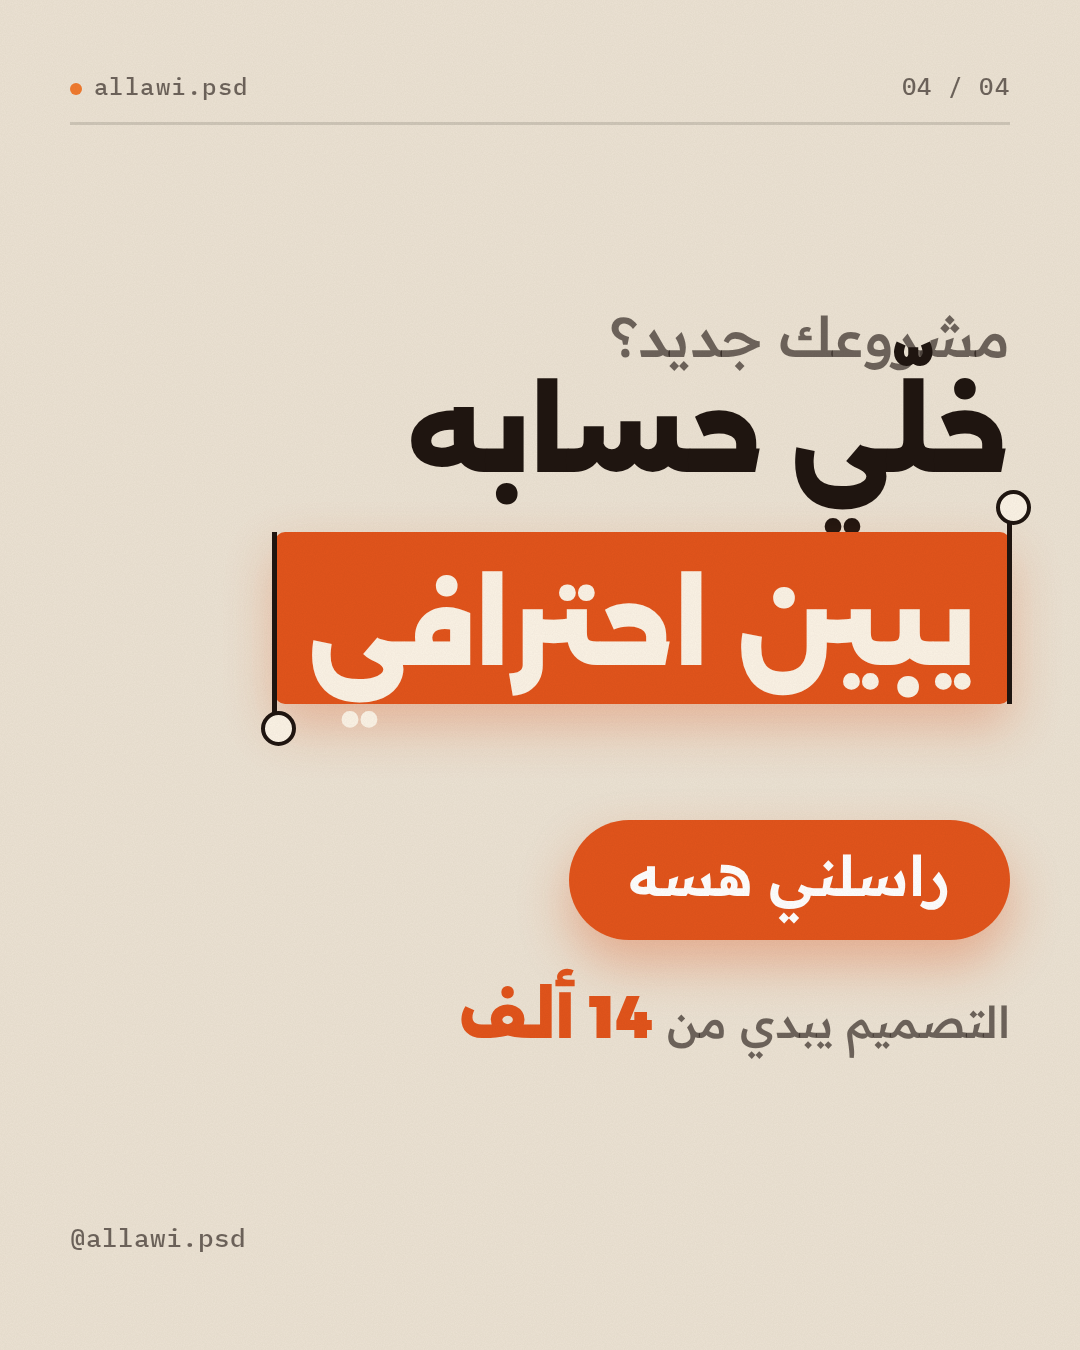
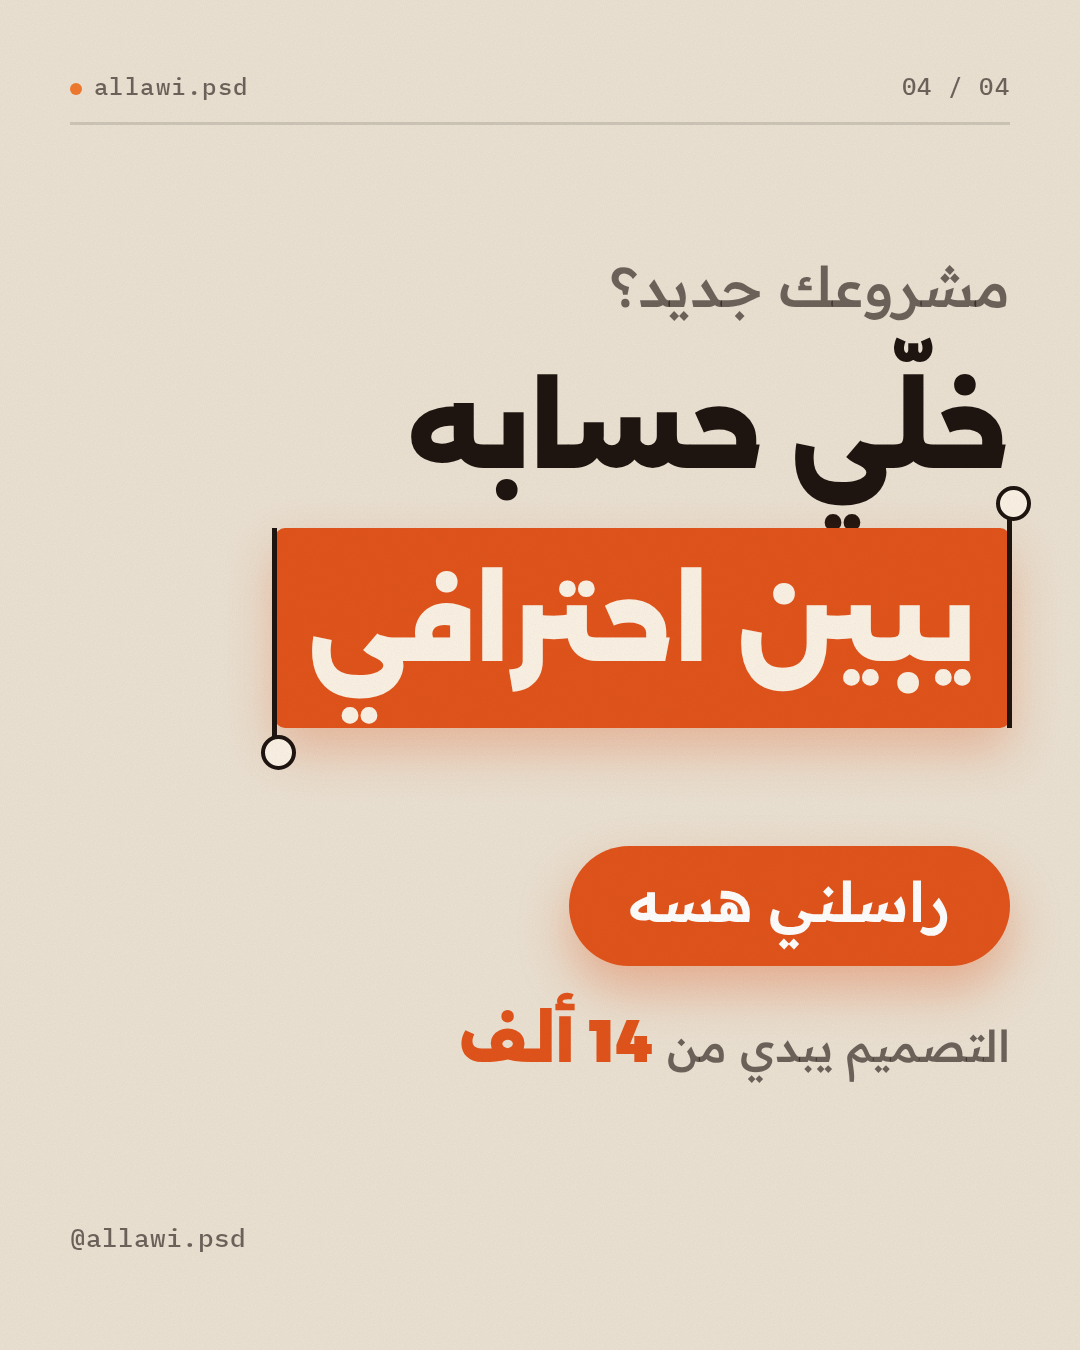
Fix text collisions found by a new glyph-level checker
tools/textcheck.cjs renders each text element alone, compares the actual ink (chips include their background), and
reports text that touches other text or the frame edge. Layout boxes miss these collisions because the hamza on «أ»,
shaddas and dots draw outside the line box.

Running it over the recent work found three collisions, now fixed:
- fixed-prices story: «وأسعاري» touched «الدولار صعد..», and the «LOCKED» badge touched «وأسعاري».
- Cactus carousel slide 4: the shadda on «خلّي» touched «مشروعك جديد؟». While there, the dots of «احترافي» that
  hung below the orange box are brought inside it.

The other slides came out clean: the five brand ads, all 22 brand-post slides, the Cactus showcase, kit and stories,
the offer post and stories, the identity covers and the reel cover.

Claude-Session: https://claude.ai/code/session_013oWw8PeK3nbdaZG97hkGWn

diff --git a/marketing/ig-offer/fixed-prices.html b/marketing/ig-offer/fixed-prices.html
@@ -23,8 +23,8 @@ body { background:#333; padding:40px }
 .block { position:absolute; left:70px; right:70px; top:340px; display:flex; flex-direction:column; align-items:flex-start }
 .lead { display:flex; align-items:center; gap:18px; font:500 64px/1.3 'Readex Pro'; color:var(--soft); white-space:nowrap }
 .lead svg { width:58px; height:58px }
-.hero { font:900 150px/1.12 'Alexandria'; white-space:nowrap; margin-top:4px }
-.hl { position:relative; display:inline-block; padding:36px 44px 18px; margin-top:44px }
+.hero { font:900 150px/1.12 'Alexandria'; white-space:nowrap; margin-top:34px }
+.hl { position:relative; display:inline-block; padding:36px 44px 18px; margin-top:30px }
 .hl .box { position:absolute; inset:0; background:var(--orange); border-radius:12px; box-shadow:0 24px 56px rgba(226,84,27,.32) }
 .hl .hd { position:absolute; width:5px; background:var(--ink) }
 .hl .hd::after { content:""; position:absolute; left:-11px; width:27px; height:27px; border-radius:50%; background:var(--cream); border:4px solid var(--ink) }
@@ -32,27 +32,27 @@ body { background:#333; padding:40px }
 .hl .hd.l { left:-3px; bottom:-30px; height:calc(100% + 30px) } .hl .hd.l::after { bottom:-14px }
 .hl .hero { position:relative; font-size:170px; color:var(--cream); margin:0 }
 /* Photoshop-style "locked layer" badge on the selection */
-.lock { position:absolute; z-index:3; left:-30px; top:-34px; display:flex; align-items:center; gap:10px; padding:10px 18px 12px 14px; border-radius:14px;
+.lock { position:absolute; z-index:3; left:-30px; top:-8px; display:flex; align-items:center; gap:10px; padding:10px 18px 12px 14px; border-radius:14px;
   background:var(--ink); color:var(--cream); font:500 22px 'IBM Plex Mono'; letter-spacing:.06em; direction:ltr; box-shadow:0 12px 26px rgba(31,21,16,.3); transform:rotate(-4deg) }
 .lock svg { width:26px; height:26px }
 
 /* chart */
-.chart { position:absolute; left:70px; right:70px; top:944px; height:380px; border-radius:36px; background:var(--cream);
+.chart { position:absolute; left:70px; right:70px; top:956px; height:380px; border-radius:36px; background:var(--cream);
   box-shadow:0 26px 56px rgba(60,35,15,.16), 0 0 0 1px rgba(31,21,16,.05) }
 .chart svg { position:absolute; inset:0; width:100%; height:100% }
 .chart .t { position:absolute; font:600 30px 'Readex Pro'; white-space:nowrap }
 .chart .ax { position:absolute; bottom:22px; font:500 22px 'Readex Pro'; color:var(--soft) }
 
 /* prices */
-.prices { position:absolute; left:70px; right:70px; top:1356px; display:flex; flex-direction:column }
-.prices .row { display:flex; align-items:center; justify-content:space-between; padding:12px 4px 16px; border-bottom:2px dashed #d3c7b5 }
+.prices { position:absolute; left:70px; right:70px; top:1366px; display:flex; flex-direction:column }
+.prices .row { display:flex; align-items:center; justify-content:space-between; padding:10px 4px 13px; border-bottom:2px dashed #d3c7b5 }
 .prices .row:last-child { border-bottom:none }
 .prices .n { font:500 40px 'Readex Pro' }
 .prices .p { display:flex; align-items:center; gap:16px; direction:ltr }
 .prices .p b { font:900 52px 'Alexandria'; color:var(--ink); white-space:nowrap }
 .prices .p svg { width:30px; height:30px; color:var(--orange) }
 
-.cta { position:absolute; left:70px; right:70px; top:1664px; display:flex; justify-content:space-between; align-items:center }
+.cta { position:absolute; left:70px; right:70px; top:1662px; display:flex; justify-content:space-between; align-items:center }
 .cta .pill { font:600 42px 'Readex Pro'; background:var(--orange); color:#fff; padding:14px 44px 22px; border-radius:999px; box-shadow:0 20px 44px rgba(226,84,27,.32); white-space:nowrap }
 .cta .h { font:500 26px 'IBM Plex Mono'; color:var(--soft); direction:ltr }
 </style></head>

diff --git a/marketing/gift-cactus/showcase.html b/marketing/gift-cactus/showcase.html
@@ -286,13 +286,13 @@ body { background:#333; display:flex; flex-wrap:wrap; gap:40px; padding:40px; wi
 <div class="art" id="s4">
   <div class="top"><span><span class="dot"></span>allawi.psd</span><span>04 / 04</span></div>
   <div class="rule"></div>
-  <div class="block" style="top:300px;">
+  <div class="block" style="top:250px;">
     <div class="lead">مشروعك جديد؟</div>
-    <div class="hero">خلّي حسابه</div>
-    <div class="hl"><div class="box"></div><i class="hd r"></i><i class="hd l"></i><div class="hero">يبين احترافي</div></div>
+    <div class="hero" style="margin-top:46px;">خلّي حسابه</div>
+    <div class="hl" style="padding-bottom:42px;"><div class="box"></div><i class="hd r"></i><i class="hd l"></i><div class="hero">يبين احترافي</div></div>
   </div>
-  <div style="position:absolute; right:70px; top:820px;"><span class="pill or" style="font-size:56px; padding:20px 60px 30px; box-shadow:0 24px 50px rgba(226,84,27,.35);">راسلني هسه</span></div>
-  <div style="position:absolute; right:70px; top:980px; font:500 44px 'Readex Pro'; color:var(--soft);">التصميم يبدي من <b style="font:900 60px 'Alexandria'; color:var(--orange);">14 ألف</b></div>
+  <div style="position:absolute; right:70px; top:846px;"><span class="pill or" style="font-size:56px; padding:20px 60px 30px; box-shadow:0 24px 50px rgba(226,84,27,.35);">راسلني هسه</span></div>
+  <div style="position:absolute; right:70px; top:1004px; font:500 44px 'Readex Pro'; color:var(--soft);">التصميم يبدي من <b style="font:900 60px 'Alexandria'; color:var(--orange);">14 ألف</b></div>
   <div class="mono" style="position:absolute; left:70px; top:1220px;">@allawi.psd</div>
 </div>
 

diff --git a/marketing/tools/README.md b/marketing/tools/README.md
@@ -1,0 +1,20 @@
+# tools
+
+## textcheck.cjs: text collisions on the real glyphs
+
+Arabic display fonts (Alexandria, Lalezar, Aref Ruqaa) draw hamzas, shaddas, dots and tall letters well outside their
+line boxes. Two lines can look spaced in the layout and still touch on the page. This tool checks the pixels.
+
+```
+NODE_PATH=/opt/node22/lib/node_modules node textcheck.cjs <page.html> '<root selector>' [<page.html> '<selector>' ...]
+# e.g.
+node textcheck.cjs ../ig-offer/fixed-prices.html '#story' ../ig-brand-posts/posts.html '.slide'
+```
+
+For every root (each `.art`, `#ad` or `.slide`), each element that holds its own text is rendered alone with shadows
+and glows off. A chip's own background (pill, badge, tag) counts as part of it. The masks are then compared:
+- `COLLISION`: two pieces of text whose ink touches or comes within 3 px of each other (parent/child pairs are skipped).
+- `EDGE`: text ink touching the frame edge, i.e. clipped.
+
+It exits with 1 if it finds anything, so run it before every render that goes to the client. It does not check text
+against non-text shapes. Glyphs hanging out of a highlight box still need a look at the render.
